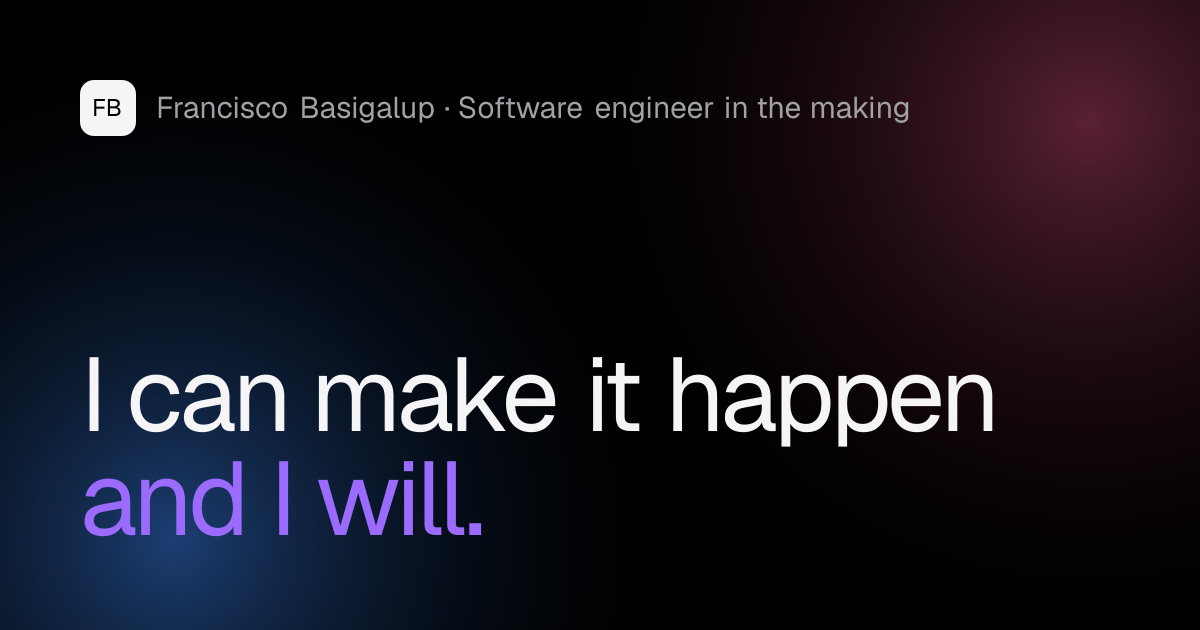
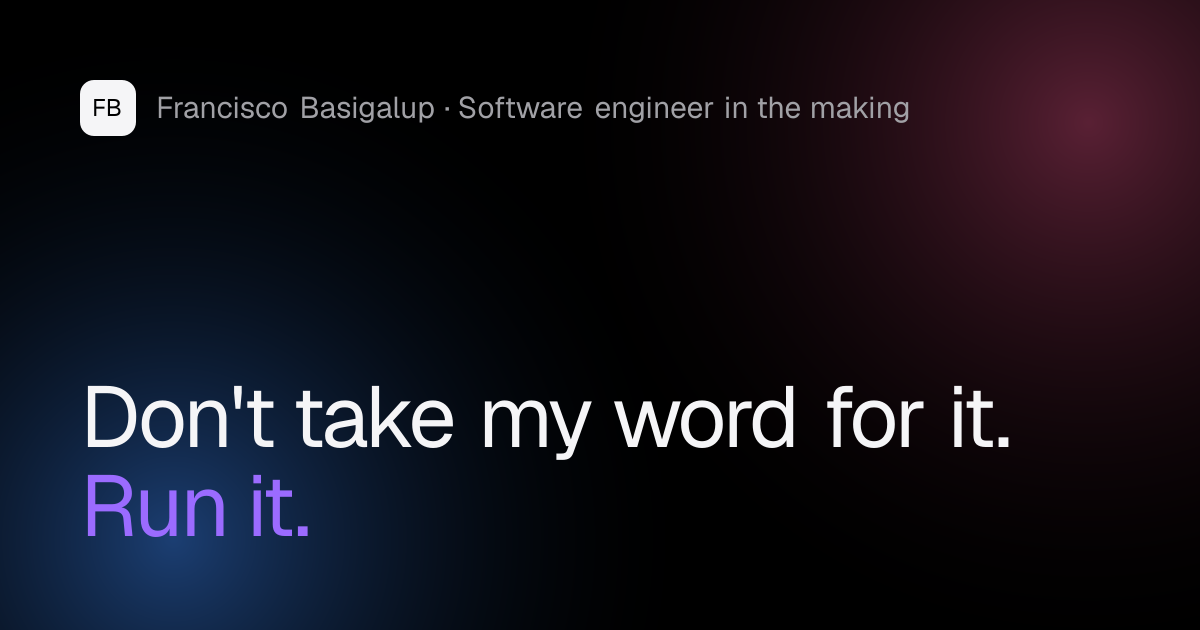
Replace the motto with "Don't take my word for it. Run it."
Updates the hero, the motto band, page titles, meta descriptions,
the share image and the README.

Changed region(s): [[0.0617, 0.573, 0.8633, 0.8746]]

diff --git a/src/content/ui.ts b/src/content/ui.ts
@@ -6,8 +6,8 @@ const strings = {
     nav: { work: "Work", all: "All projects", about: "About", contact: "Contact" },
     hero: {
       eyebrow: "Francisco Basigalup · Information Systems student, Universidad Champagnat, Argentina · Open to SWE internships",
-      line1: "I can make it happen",
-      line2: "and I will.",
+      line1: "Don't take my word for it.",
+      line2: "Run it.",
       intro:
         "I build complete products and care about proving they work: a booking platform whose database makes double booking impossible, a bilingual virtual receptionist live on Vercel, and most of the web app for a four-person blockchain marketplace. I work with AI coding agents; the design decisions, reviews and verification are mine.",
       ctaWork: "See my work",
@@ -99,8 +99,8 @@ const strings = {
     nav: { work: "Destacados", all: "Todos los proyectos", about: "Sobre mí", contact: "Contacto" },
     hero: {
       eyebrow: "Francisco Basigalup · Estudiante de Sistemas, Universidad Champagnat, Argentina · Busco pasantías en ingeniería de software",
-      line1: "I can make it happen",
-      line2: "and I will.",
+      line1: "Don't take my word for it.",
+      line2: "Run it.",
       intro:
         "Construyo productos completos y me importa demostrar que funcionan: una plataforma de turnos cuya base de datos hace imposible el doble turno, un recepcionista virtual bilingüe online en Vercel y la mayor parte de la app web de un marketplace blockchain hecho en un equipo de cuatro. Trabajo con agentes de IA; las decisiones de diseño, las revisiones y la verificación son mías.",
       ctaWork: "Ver mi trabajo",

diff --git a/src/components/home.tsx b/src/components/home.tsx
@@ -75,7 +75,7 @@ function Hero({ lang }: { lang: Lang }) {
       <Container className="pb-20 pt-20 sm:pb-28 sm:pt-32">
         <p className="rise mb-6 text-[13px] font-medium text-fg-muted sm:text-sm">{t.hero.eyebrow}</p>
         <h1 lang="en" className="text-[clamp(3.1rem,10vw,8rem)] font-semibold leading-[0.92] tracking-[-0.05em]">
-          <span className="rise block">{t.hero.line1}</span>
+          <span className="rise block text-balance">{t.hero.line1}</span>
           <span className="rise block pb-[0.08em] [animation-delay:180ms]">
             <span className="text-gradient">{t.hero.line2}</span>
           </span>
@@ -319,7 +319,7 @@ function Motto({ lang }: { lang: Lang }) {
         </p>
         <blockquote data-reveal lang="en">
           <p className="mx-auto max-w-5xl text-[clamp(2.6rem,8vw,6.5rem)] font-semibold uppercase leading-[0.95] tracking-[-0.04em]">
-            I can make it happen <span className="text-gradient">and I will.</span>
+            {t.hero.line1} <span className="text-gradient">{t.hero.line2}</span>
           </p>
           <footer className="mt-10 text-[15px] text-white/60">— {t.motto.sign}</footer>
         </blockquote>

diff --git a/src/app/layout.tsx b/src/app/layout.tsx
@@ -15,12 +15,12 @@ const geistMono = Geist_Mono({
 });
 
 const description =
-  "Francisco Basigalup, Information Systems student in Argentina, open to SWE internships. Web, mobile and embedded projects with code, tests and honest status. I can make it happen and I will.";
+  "Francisco Basigalup, Information Systems student in Argentina, open to SWE internships. Web, mobile and embedded projects with code, tests and honest status. Don't take my word for it. Run it.";
 
 export const metadata: Metadata = {
   metadataBase: new URL(site.url),
   title: {
-    default: `${site.name} — I can make it happen and I will.`,
+    default: `${site.name} — ${site.motto}`,
     template: `%s · ${site.name}`,
   },
   description,
@@ -28,7 +28,7 @@ export const metadata: Metadata = {
   openGraph: {
     type: "website",
     siteName: site.name,
-    title: `${site.name} — I can make it happen and I will.`,
+    title: `${site.name} — ${site.motto}`,
     description,
   },
   twitter: { card: "summary_large_image" },

diff --git a/src/app/es/page.tsx b/src/app/es/page.tsx
@@ -6,9 +6,9 @@ import { site } from "@/content/site";
 
 export const metadata: Metadata = pageMetadata({
   lang: "es",
-  title: `${site.name} — I can make it happen and I will.`,
+  title: `${site.name} — ${site.motto}`,
   description:
-    "Francisco Basigalup, estudiante de Sistemas en Argentina, busca pasantías en ingeniería de software. Proyectos web, móviles y embebidos con código, tests y estado real. I can make it happen and I will.",
+    "Francisco Basigalup, estudiante de Sistemas en Argentina, busca pasantías en ingeniería de software. Proyectos web, móviles y embebidos con código, tests y estado real. No me creas: probalo.",
   en: "/",
   es: "/es/",
 });

diff --git a/src/app/page.tsx b/src/app/page.tsx
@@ -6,9 +6,9 @@ import { site } from "@/content/site";
 
 export const metadata: Metadata = pageMetadata({
   lang: "en",
-  title: `${site.name} — I can make it happen and I will.`,
+  title: `${site.name} — ${site.motto}`,
   description:
-    "Francisco Basigalup, Information Systems student in Argentina, open to SWE internships. Web, mobile and embedded projects with code, tests and honest status. I can make it happen and I will.",
+    "Francisco Basigalup, Information Systems student in Argentina, open to SWE internships. Web, mobile and embedded projects with code, tests and honest status. Don't take my word for it. Run it.",
   en: "/",
   es: "/es/",
 });

diff --git a/src/content/site.ts b/src/content/site.ts
@@ -8,7 +8,7 @@ export const site = {
   name: "Francisco Basigalup",
   shortName: "Francisco",
   initials: "FB",
-  motto: "I can make it happen and I will.",
+  motto: "Don't take my word for it. Run it.",
   location: { en: "Argentina", es: "Argentina" } satisfies L,
   // Set NEXT_PUBLIC_SITE_URL once you have a custom domain. On Vercel the
   // production URL is picked up automatically.

diff --git a/README.md b/README.md
@@ -1,6 +1,6 @@
 # Francisco Basigalup — Portfolio
 
-> **I CAN MAKE IT HAPPEN AND I WILL.**
+> **Don't take my word for it. Run it.**
 
 My personal site: every project I've built, told as honest case studies, in English (`/`) and Spanish (`/es/`).
 
